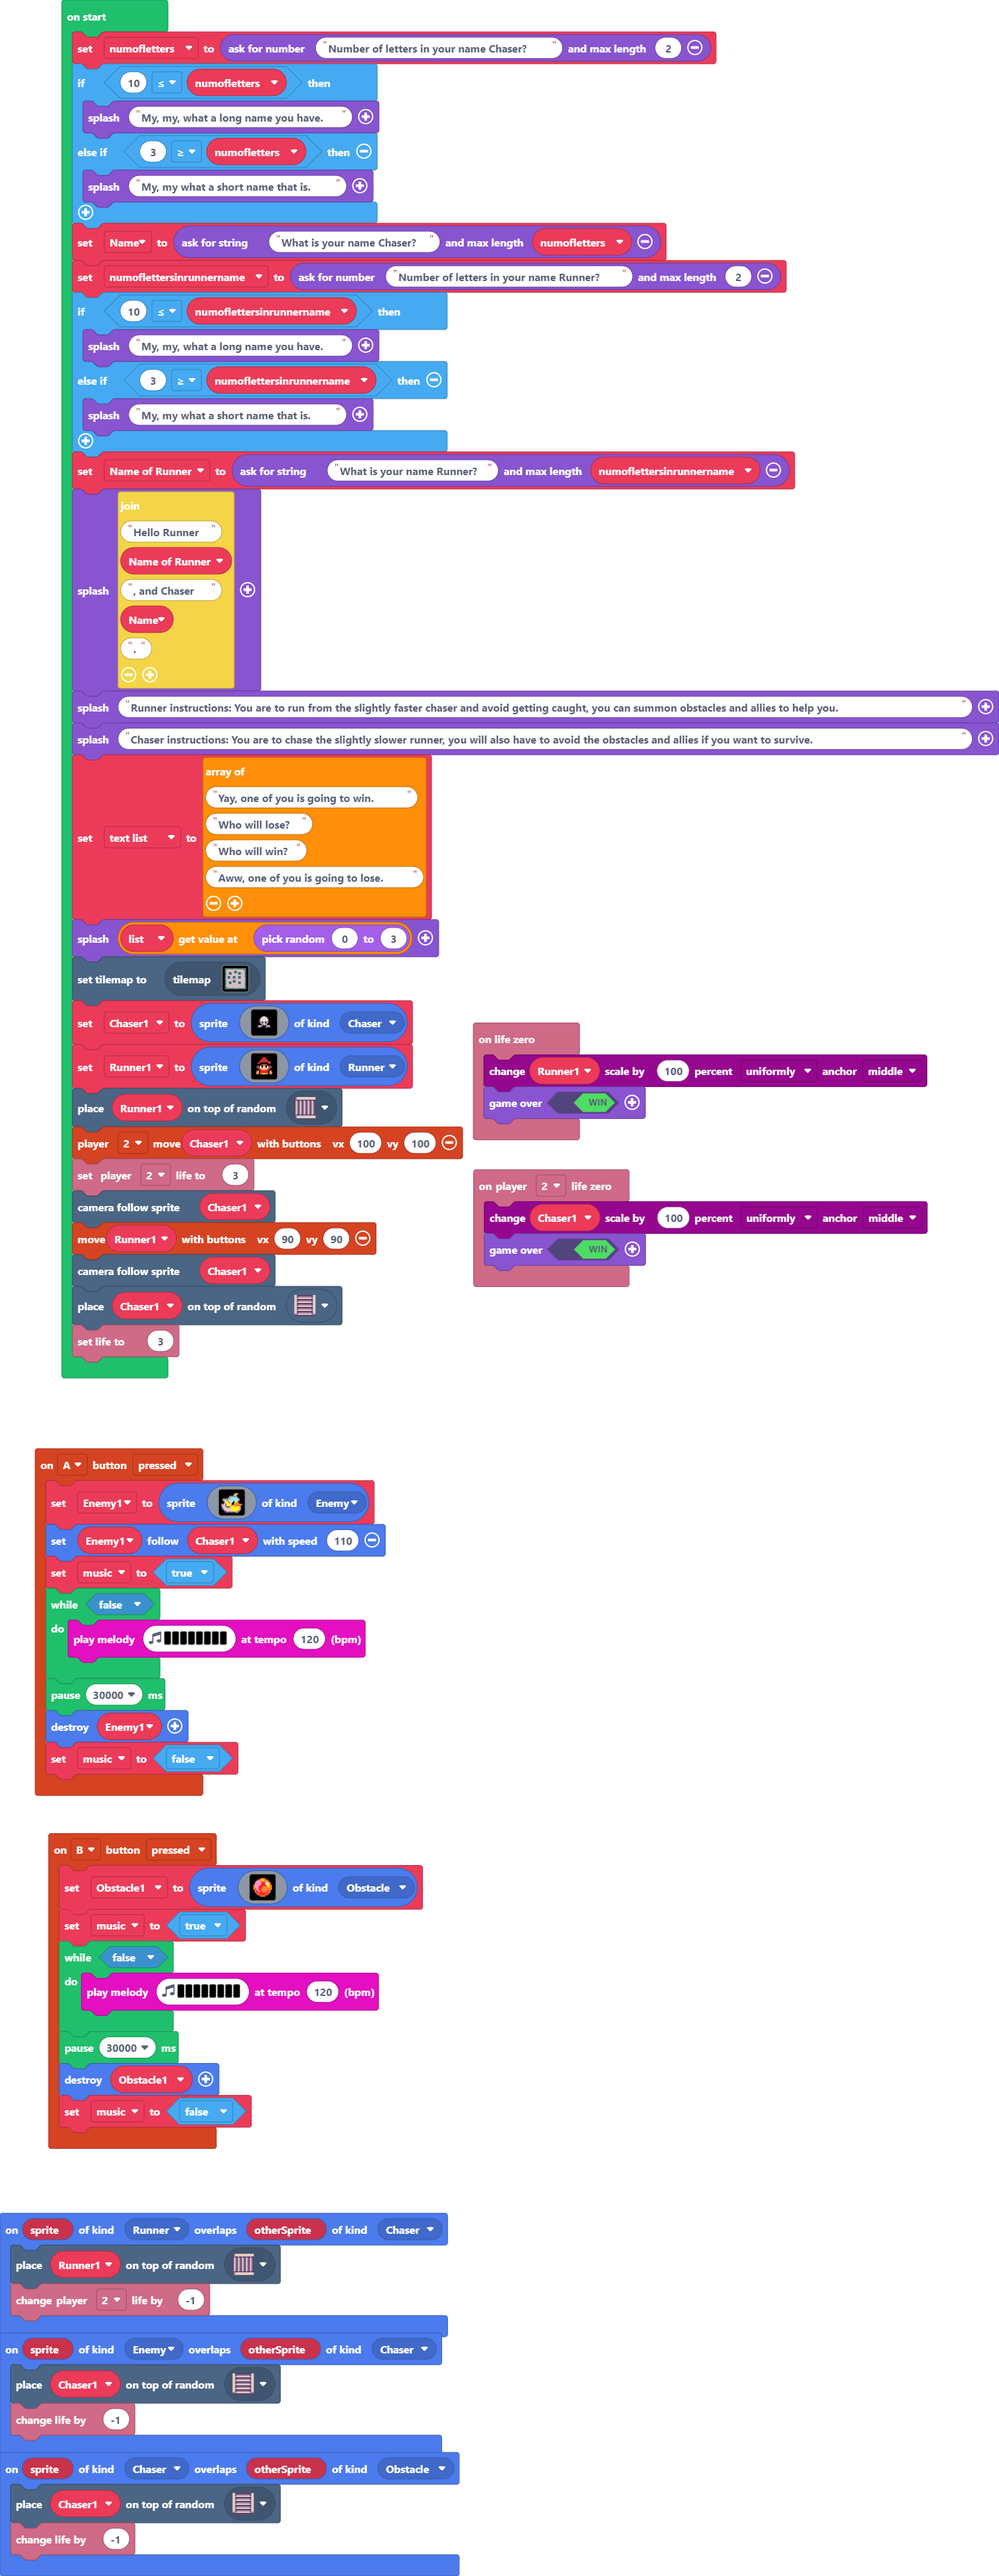
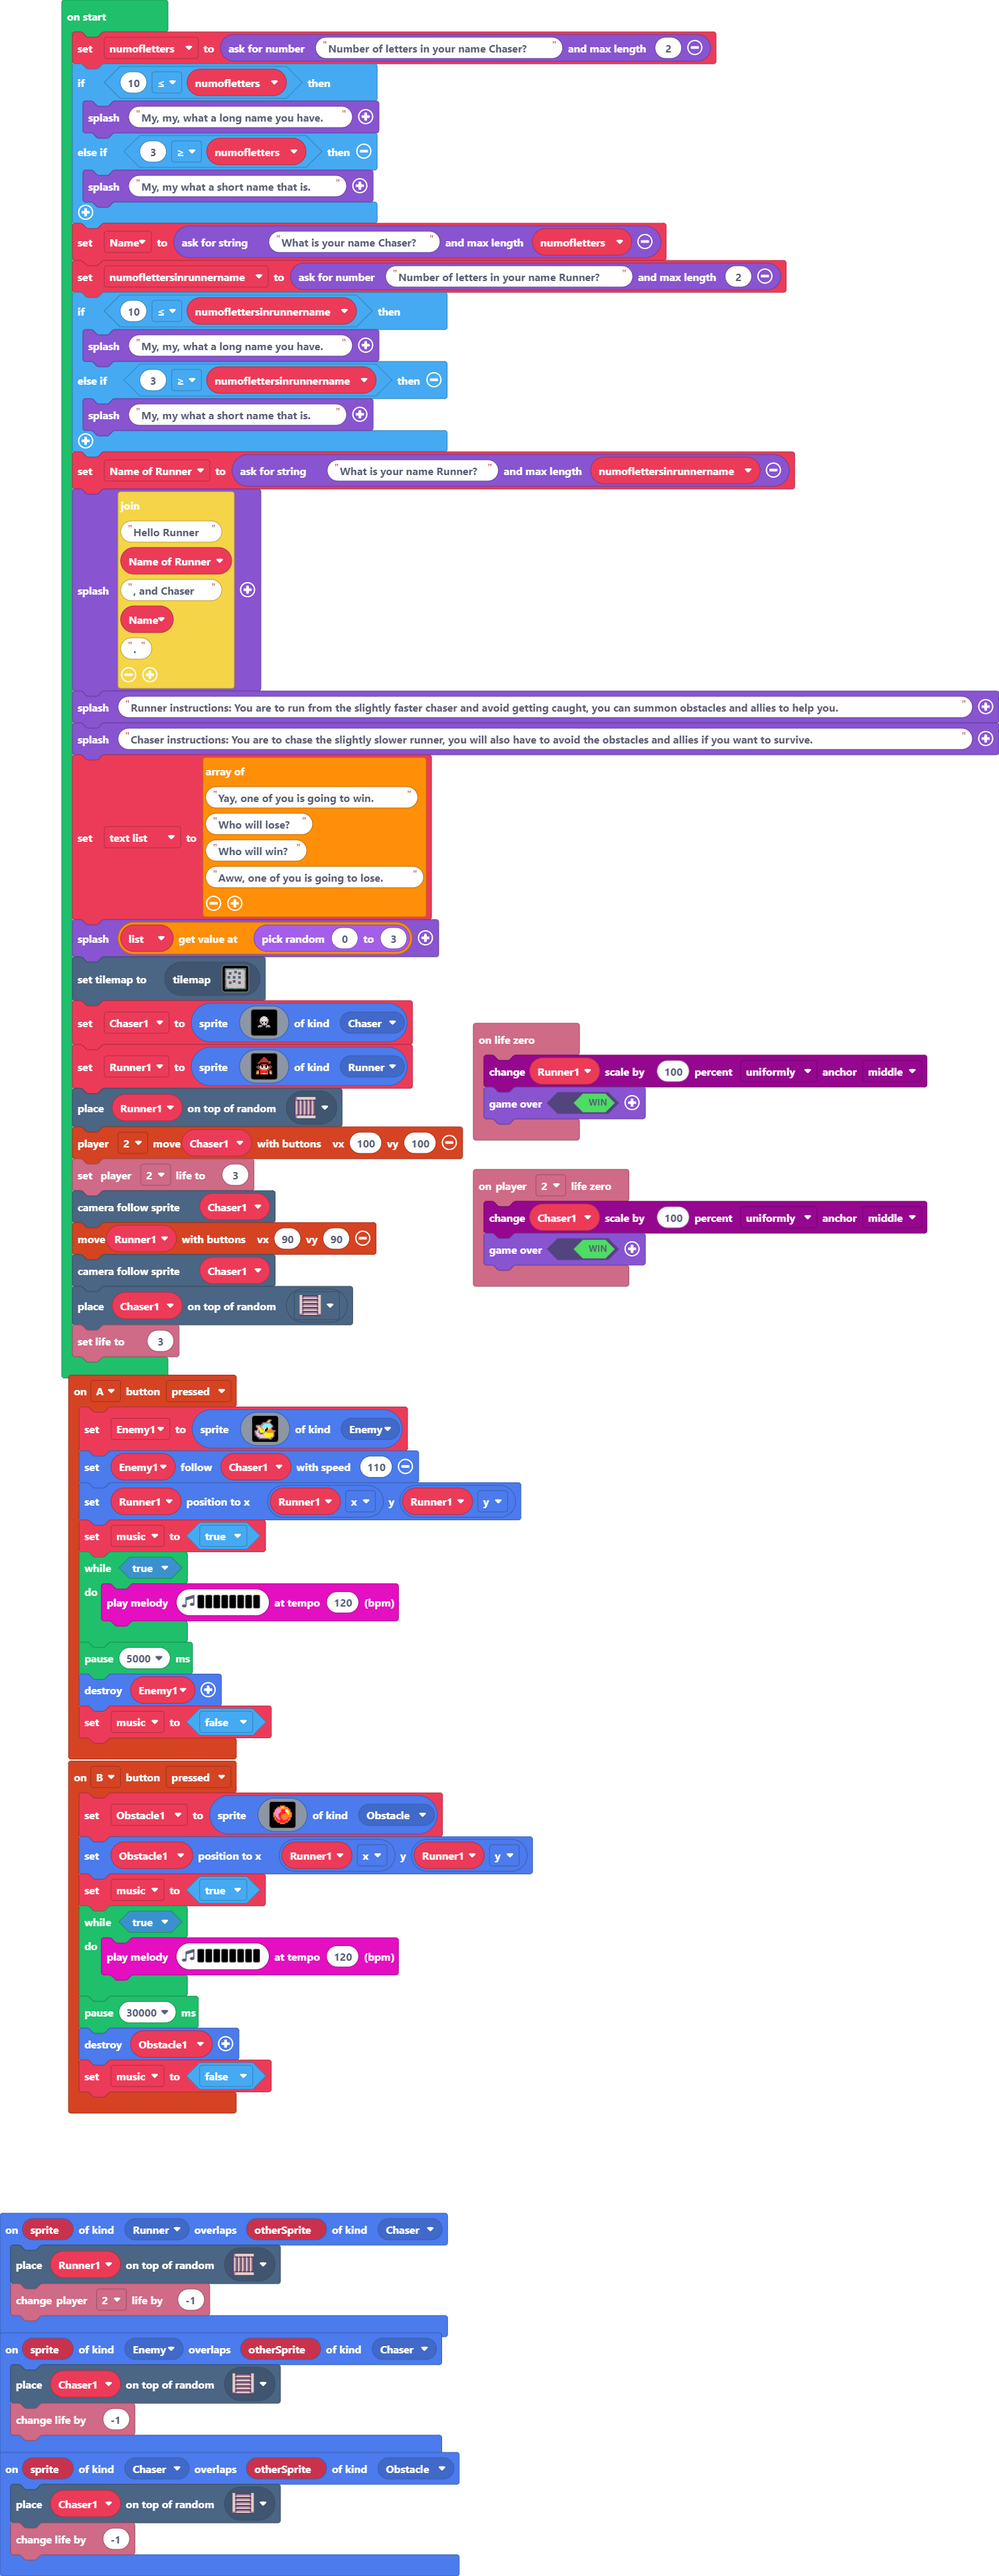
Update main.blocks, main.ts

Changed region(s): [[0.0312, 0.4994, 0.5309, 0.8427], [0.5621, 0.4057, 0.5934, 0.4369]]

diff --git a/main.ts b/main.ts
@@ -22,8 +22,9 @@ controller.B.onEvent(ControllerButtonEvent.Pressed, function () {
         . . . . . . 4 4 4 4 . . . . . . 
         . . . . . . . . . . . . . . . . 
         `, SpriteKind.Obstacle)
+    Obstacle1.setPosition(Runner1.x, Runner1.y)
     music2 = true
-    while (false) {
+    while (true) {
         music.playMelody("C5 B C5 B C5 B C5 B ", 120)
     }
     pause(30000)
@@ -50,11 +51,12 @@ controller.A.onEvent(ControllerButtonEvent.Pressed, function () {
         . . . c c c c c c c c b b . . . 
         `, SpriteKind.Enemy)
     Enemy1.follow(Chaser1, 110)
+    Runner1.setPosition(Runner1.x, Runner1.y)
     music2 = true
-    while (false) {
+    while (true) {
         music.playMelody("C5 B C5 B C5 B C5 B ", 120)
     }
-    pause(30000)
+    pause(5000)
     Enemy1.destroy()
     music2 = false
 })
